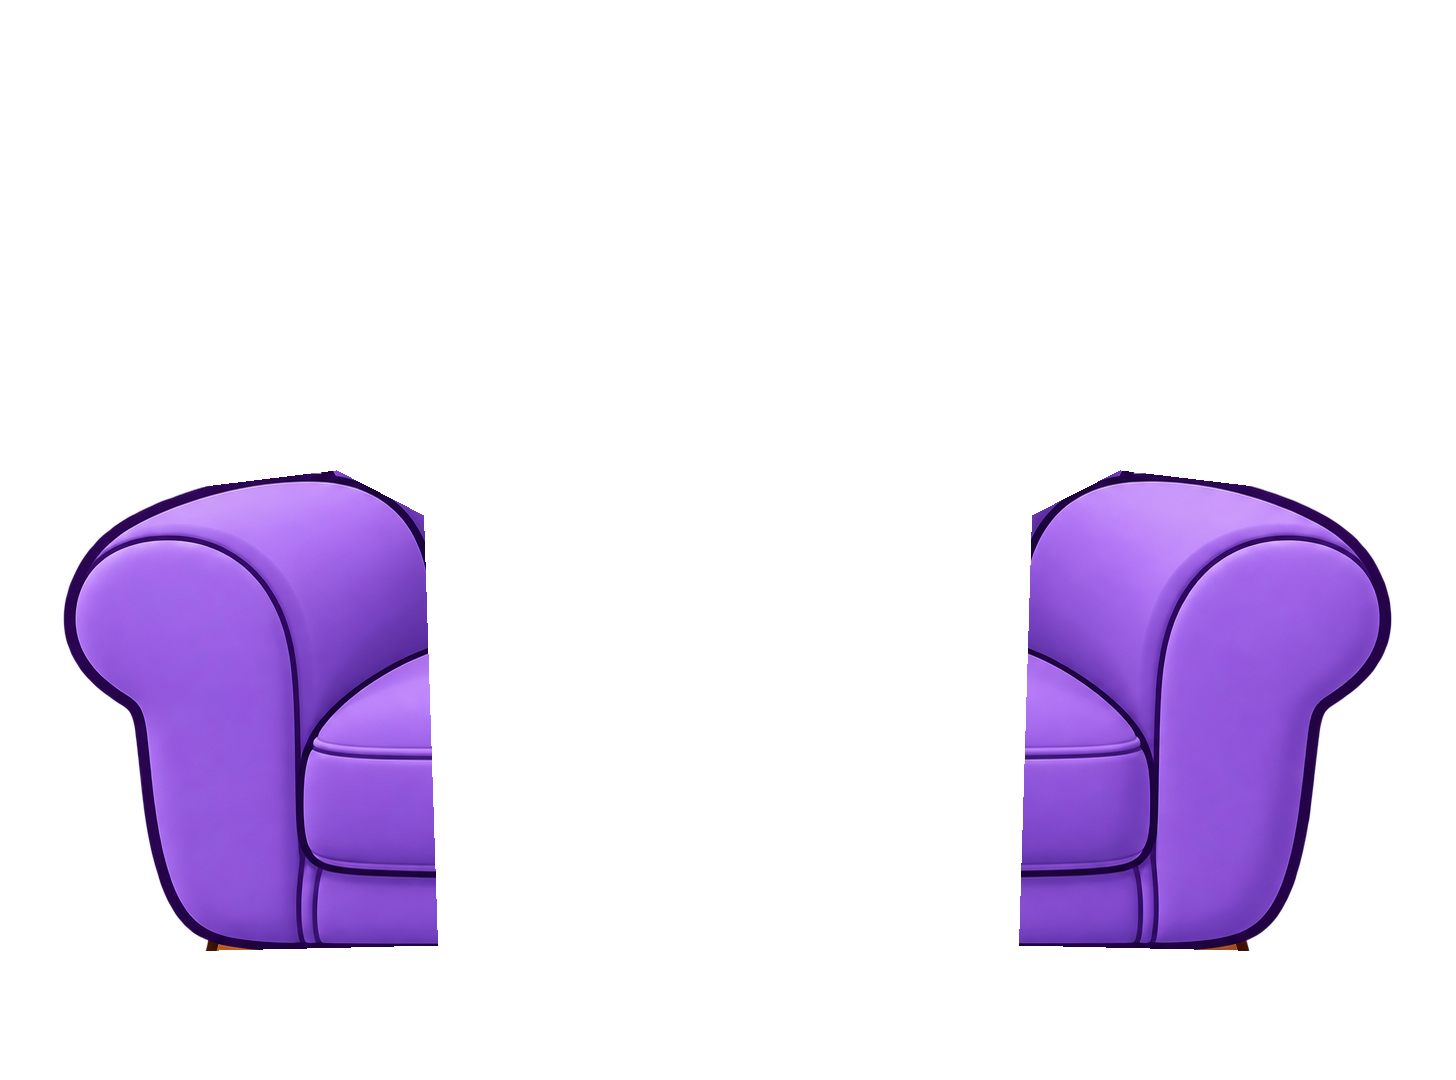
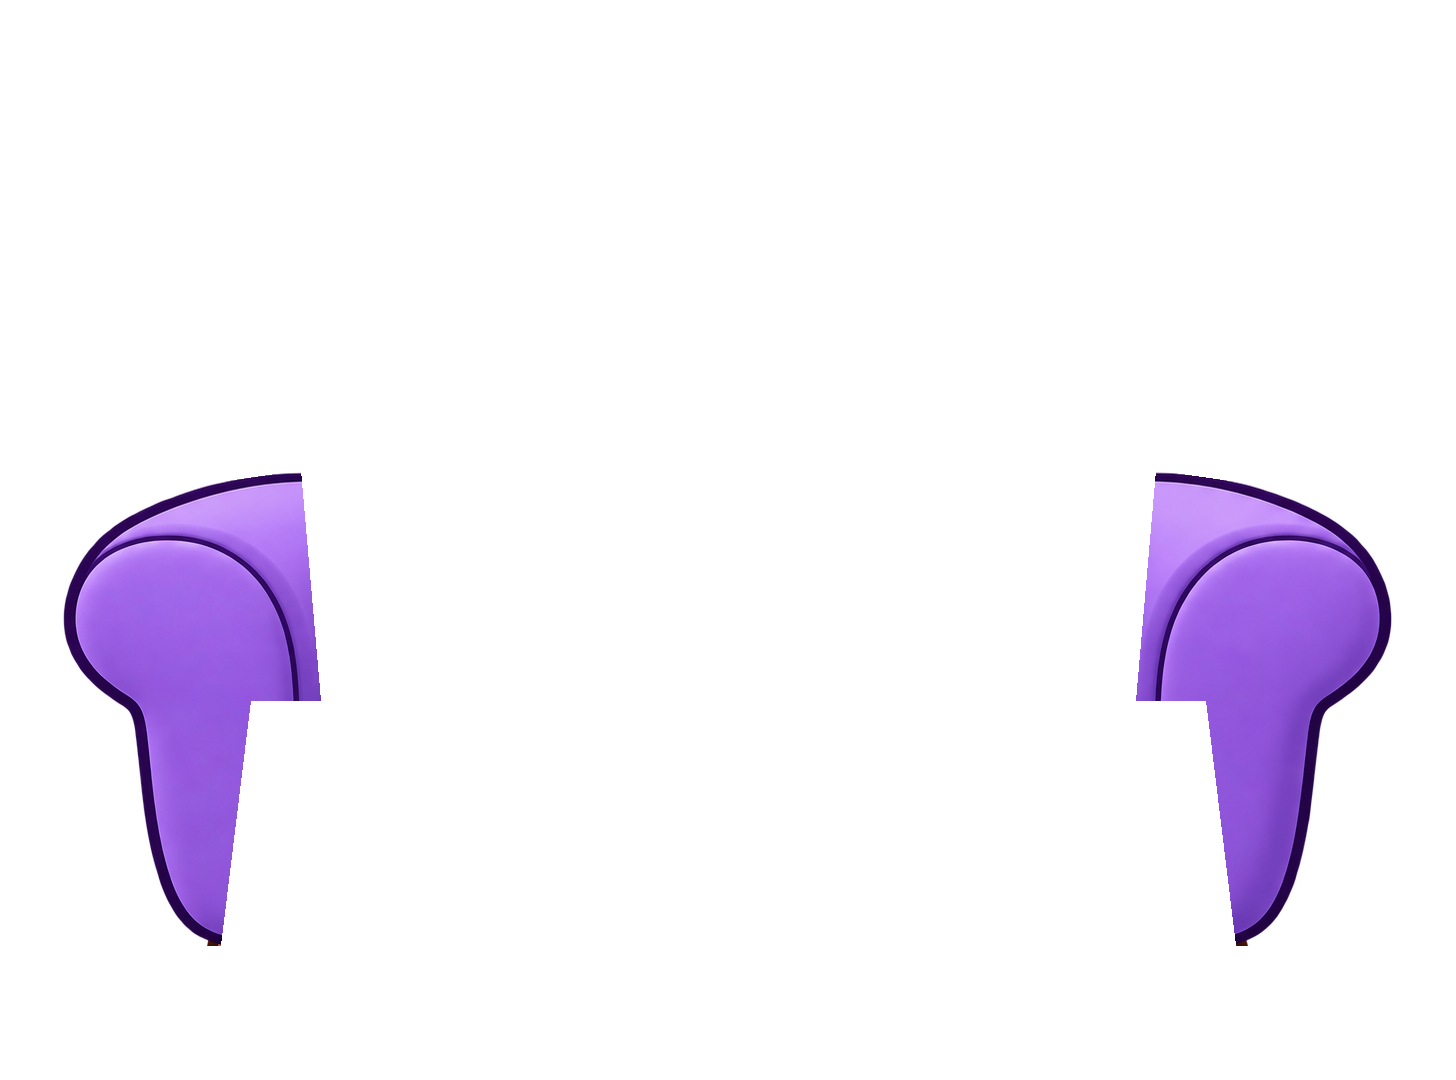
Record blocked Max rig seated silhouette repair

Changed region(s): [[0.6799, 0.4278, 0.8654, 0.8861], [0.1236, 0.4278, 0.3091, 0.8861]]

diff --git a/src/experimental/maxSitRig.ts b/src/experimental/maxSitRig.ts
@@ -2,7 +2,9 @@
 const BASE = '/art/experimental/max-sit-v1/';
 const SOURCE_WIDTH = 434;
 const SOURCE_HEIGHT = 724;
-const FOOT_LINE = 699;
+// Last solid approved shoe row (the few pixels below are transparent fringe).
+const FOOT_LINE = 684;
+const CHAIR_FOOT_FRACTION = 1029 / 1080;
 
 export type Vec2 = { x: number; y: number };
 export type MaxRigAssets = Record<string, HTMLImageElement>;
@@ -14,7 +16,8 @@ const names = [
   'upper-leg-right', 'upper-leg-left', 'lower-leg-right', 'lower-leg-left',
   'torso', 'upper-leg-fill-right', 'lower-leg-fill-right',
   'upper-leg-fill-left', 'lower-leg-fill-left', 'arm-fill-right',
-  'arm-fill-left', 'chair-back', 'chair-front',
+  'arm-fill-left', 'seated-thigh-right', 'seated-shin-right',
+  'seated-thigh-left', 'seated-shin-left', 'chair-back', 'chair-front',
 ] as const;
 
 const load = (name: string) => new Promise<HTMLImageElement>((resolve, reject) => {
@@ -101,6 +104,7 @@ export function drawMaxRigSource(context: CanvasRenderingContext2D, assets: MaxR
     return point(turned.x, turned.y + targetRoot.y - root.y);
   };
 
+  const legJoints: Array<{ side: 'right' | 'left'; sourceHip: Vec2; sourceKnee: Vec2; sourceAnkle: Vec2; hip: Vec2; knee: Vec2; ankle: Vec2 }> = [];
   // Articulated knees move outward as the pelvis descends; shoes remain fixed.
   for (const side of ['right', 'left'] as const) {
     const right = side === 'right';
@@ -111,11 +115,10 @@ export function drawMaxRigSource(context: CanvasRenderingContext2D, assets: MaxR
     const ankle = sourceAnkle;
     const solved = kneeAt(hip, ankle, distance(sourceHip, sourceKnee), distance(sourceKnee, sourceAnkle), right ? -1 : 1);
     const knee = point(sourceKnee.x + (solved.x - sourceKnee.x) * amount, sourceKnee.y + (solved.y - sourceKnee.y) * amount);
-    const fillOpacity = Math.min(1, amount * 4);
-    drawBone(context, assets, `lower-leg-fill-${side}`, sourceKnee, sourceAnkle, knee, ankle, fillOpacity);
-    drawBone(context, assets, `lower-leg-${side}`, sourceKnee, sourceAnkle, knee, ankle);
-    drawBone(context, assets, `upper-leg-fill-${side}`, sourceHip, sourceKnee, hip, knee, fillOpacity);
-    drawBone(context, assets, `upper-leg-${side}`, sourceHip, sourceKnee, hip, knee);
+    legJoints.push({ side, sourceHip, sourceKnee, sourceAnkle, hip, knee, ankle });
+    const seatedOpacity = Math.min(1, amount * 3);
+    drawBone(context, assets, `seated-shin-${side}`, sourceKnee, sourceAnkle, knee, ankle, seatedOpacity);
+    drawBone(context, assets, `lower-leg-${side}`, sourceKnee, sourceAnkle, knee, ankle, 1 - seatedOpacity);
   }
   // The approved shoe pixels are unchanged and fixed on the floor.
   drawPart(context, assets, 'shoe-right', point(153, 620), point(153, 620));
@@ -123,6 +126,14 @@ export function drawMaxRigSource(context: CanvasRenderingContext2D, assets: MaxR
 
   drawPart(context, assets, 'torso', root, targetRoot, pose.lean);
   drawPart(context, assets, 'pelvis', root, targetRoot, pose.lean);
+
+  // A bent thigh is in front of Max's shorts and the upper shoe, while its
+  // lower leg remains behind the shoe. The neutral source partition is exact.
+  for (const leg of legJoints) {
+    const seatedOpacity = Math.min(1, amount * 3);
+    drawBone(context, assets, `upper-leg-${leg.side}`, leg.sourceHip, leg.sourceKnee, leg.hip, leg.knee, 1 - seatedOpacity);
+    drawBone(context, assets, `seated-thigh-${leg.side}`, leg.sourceHip, leg.sourceKnee, leg.hip, leg.knee, seatedOpacity);
+  }
 
   for (const side of ['right', 'left'] as const) {
     const right = side === 'right';
@@ -140,7 +151,7 @@ export function drawMaxRigSource(context: CanvasRenderingContext2D, assets: MaxR
     drawPart(context, assets, `hand-${side}`, sourceWrist, wrist, elbowAngle);
   }
   const neck = point(218, 382);
-  drawPart(context, assets, 'head', neck, upperPoint(neck), 0);
+  drawPart(context, assets, 'head', neck, upperPoint(neck), pose.lean);
 }
 
 /** Draws the experimental rig at a scene-style ground point with layered chair. */
@@ -159,13 +170,13 @@ export function drawMaxSitStudy(context: CanvasRenderingContext2D, assets: MaxRi
   context.save();
   context.fillStyle = 'rgba(68,42,75,.22)';
   context.beginPath(); context.ellipse(center, floor, 86, 14, 0, 0, Math.PI * 2); context.fill();
-  if (mode === 'motion') context.drawImage(assets['chair-back'], center - 115, floor - 140, 230, 140);
+  if (mode === 'motion') context.drawImage(assets['chair-back'], center - 115, floor - 140 * CHAIR_FOOT_FRACTION, 230, 140);
   const offscreen = document.createElement('canvas');
   offscreen.width = SOURCE_WIDTH; offscreen.height = SOURCE_HEIGHT;
   const local = offscreen.getContext('2d')!;
   drawMaxRigSource(local, assets, pose);
   context.drawImage(offscreen, center - SOURCE_WIDTH * scale / 2, top, SOURCE_WIDTH * scale, 355);
-  if (mode === 'motion') context.drawImage(assets['chair-front'], center - 115, floor - 140, 230, 140);
+  if (mode === 'motion') context.drawImage(assets['chair-front'], center - 115, floor - 140 * CHAIR_FOOT_FRACTION, 230, 140);
   if (mode === 'joints') {
     const stage = (x: number, y: number) => point(center - SOURCE_WIDTH * scale / 2 + x * scale, top + y * scale);
     const joints: Record<string, Vec2> = {

diff --git a/scripts/build_max_sit_rig_v1.py b/scripts/build_max_sit_rig_v1.py
@@ -54,11 +54,41 @@ def illustrated_limb(name: str, points: list[tuple[int, int]], *, garment: bool 
     canvas.save(OUT / f'{name}.png')
 
 
+def seated_leg_art(side: str, hip_x: int) -> None:
+    """Reusable shorts, knee and shin surfaces registered to the source leg joints."""
+    outline = (4, 29, 61, 255)
+    shorts = (38, 57, 95, 255)
+    shorts_light = (53, 77, 113, 255)
+    skin = (39, 204, 193, 255)
+    skin_light = (82, 225, 211, 255)
+
+    thigh = Image.new('RGBA', size)
+    d = ImageDraw.Draw(thigh)
+    # The cap is at the hip; the lower turquoise oval marks a real bent knee.
+    d.rounded_rectangle((hip_x - 25, 548, hip_x + 25, 584), radius=16, fill=outline)
+    d.rounded_rectangle((hip_x - 21, 551, hip_x + 21, 581), radius=13, fill=shorts)
+    d.arc((hip_x - 19, 554, hip_x + 16, 581), 195, 345, fill=shorts_light, width=3)
+    d.ellipse((hip_x - 19, 573, hip_x + 19, 600), fill=outline)
+    d.ellipse((hip_x - 16, 575, hip_x + 16, 596), fill=skin)
+    d.arc((hip_x - 13, 578, hip_x + 11, 593), 190, 340, fill=skin_light, width=3)
+    thigh.save(OUT / f'seated-thigh-{side}.png')
+
+    shin = Image.new('RGBA', size)
+    d = ImageDraw.Draw(shin)
+    d.rounded_rectangle((hip_x - 18, 582, hip_x + 18, 630), radius=15, fill=outline)
+    d.rounded_rectangle((hip_x - 15, 585, hip_x + 15, 627), radius=12, fill=skin)
+    d.arc((hip_x - 11, 589, hip_x + 7, 618), 185, 350, fill=skin_light, width=3)
+    shin.save(OUT / f'seated-shin-{side}.png')
+
+
 def main() -> None:
     OUT.mkdir(parents=True, exist_ok=True)
     # Mutually exclusive original-pixel partitions reconstruct the source at rest.
     candidate: dict[str, np.ndarray] = {
-        'head': old_mask('head.png'),
+        # The inherited head mask omitted eyes, mouth, hair outlines and halo
+        # pixels. Those pixels stayed in the moving torso and ghosted on lean.
+        # All source pixels above the chin boundary move with the head.
+        'head': old_mask('head.png') | ((np.arange(height)[:, None] < 354) & (original[:, :, 3] > 0)),
         'hand-right': old_mask('hand-right.png'),
         'hand-left': old_mask('hand-left.png'),
     }
@@ -96,6 +126,7 @@ def main() -> None:
     for side, x in [('right', 164), ('left', 268)]:
         illustrated_limb(f'upper-leg-fill-{side}', [(x - 23, 550), (x + 22, 550), (x + 20, 591), (x - 21, 591)], garment=True)
         illustrated_limb(f'lower-leg-fill-{side}', [(x - 20, 585), (x + 20, 585), (x + 18, 628), (x - 18, 628)])
+        seated_leg_art(side, x)
     for side, x in [('right', 117), ('left', 328)]:
         illustrated_limb(f'arm-fill-{side}', [(x - 19, 449), (x + 19, 449), (x + 18, 511), (x - 18, 511)], garment=True)
 
@@ -105,8 +136,10 @@ def main() -> None:
     cw, ch = chair.size
     front_mask = Image.new('L', chair.size)
     pen = ImageDraw.Draw(front_mask)
-    pen.polygon([(0, 580), (90, 500), (336, 470), (423, 515), (437, 945), (0, 955)], fill=255)
-    pen.polygon([(1032, 515), (1120, 470), (1370, 500), (cw, 580), (cw, 955), (1019, 945)], fill=255)
+    # Only the outside armrests cross in front of Max. The cushion/base and
+    # chair feet stay behind him; the earlier broad masks cut off his shoes.
+    pen.polygon([(0, 580), (90, 500), (300, 470), (320, 700), (250, 700), (220, 945), (0, 955)], fill=255)
+    pen.polygon([(cw - 320, 700), (cw - 300, 470), (cw - 90, 500), (cw, 580), (cw, 955), (cw - 220, 945), (cw - 250, 700)], fill=255)
     chair_front = Image.new('RGBA', chair.size)
     chair_front.paste(chair, (0, 0), front_mask)
     chair.save(OUT / 'chair-back.png')
@@ -115,7 +148,7 @@ def main() -> None:
     metadata = {
         'version': 1, 'source': '/art/max-0.png', 'width': width, 'height': height,
         'parts': list(assigned),
-        'newFillParts': ['upper-leg-fill-right', 'lower-leg-fill-right', 'upper-leg-fill-left', 'lower-leg-fill-left', 'arm-fill-right', 'arm-fill-left'],
+        'newFillParts': ['upper-leg-fill-right', 'lower-leg-fill-right', 'upper-leg-fill-left', 'lower-leg-fill-left', 'arm-fill-right', 'arm-fill-left', 'seated-thigh-right', 'seated-shin-right', 'seated-thigh-left', 'seated-shin-left'],
         'joints': {
             'neck': [218, 382], 'pelvis': [217, 548],
             'shoulder-right': [150, 410], 'elbow-right': [112, 477], 'wrist-right': [98, 521],
@@ -123,7 +156,7 @@ def main() -> None:
             'hip-right': [164, 552], 'knee-right': [162, 590], 'ankle-right': [153, 620],
             'hip-left': [268, 552], 'knee-left': [271, 590], 'ankle-left': [281, 620],
         },
-        'approvedFootLine': 699, 'seatTarget': [217, 613],
+        'approvedFootLine': 684, 'chairFootRow': 1029, 'seatTarget': [217, 613],
     }
     (OUT / 'rig.json').write_text(json.dumps(metadata, indent=2), encoding='utf-8')
     # Exact neutral reconstruction can be validated without a browser.

diff --git a/proofs/max-rig-v1/REPORT.md b/proofs/max-rig-v1/REPORT.md
@@ -36,3 +36,25 @@ The video is a real `canvas.captureStream(30)` MediaRecorder capture of the Type
 - Maxine, sofa, toy carrying and Batch 4 were not started.
 
 The provisional chair was generated with the built-in image-generation tool and saved as [chair-source.png](chair-source.png). Prompt: one transparent front-view purple children's armchair matching the supplied chair's outlined style, tall backrest, distinctly low cushion near the floor, short wooden feet, clear space for Max, no occupant, room or shadow. The chair image is provisional and unapproved.
+
+## Targeted repair attempt — 21 October 2026
+
+**Still rejected.** The new focused frames show an improvement in head registration, shoe grounding and thigh visibility, but the seated silhouette remains unconvincing. The original video above records the *previous* implementation; no new full-cycle video was made because the focused pose gate failed. These are browser Canvas renders of the repaired experimental module, captured with a disposable Chrome profile by [capture-repair-poses.mjs](capture-repair-poses.mjs).
+
+- [Standing, large](repair-standing.png) · [halfway, large](repair-halfway.png) · [seated with full chair](repair-seated.png)
+- [Seated without foreground chair arms](repair-seated-no-front.png) · [seated anatomy with no chair](repair-seated-anatomy.png)
+- [Browser neutral comparison and capture record](repair-check.json): 0 differing RGBA pixels at rest on the 434 × 724 source canvas.
+
+### Diagnosis
+
+The original partition assigned only **738 right-thigh pixels, 604 left-thigh pixels, 87 right-shin pixels and 0 left-shin pixels** to the independent upper/lower-leg pieces. The approved shoe regions begin around source row 584–586 and extend to the floor. The pelvis spans rows 507–584. The original draw order placed both articulated legs behind these much larger pieces, so a bent knee could be mathematically correct yet invisible. The old head cut-out omitted eyes, mouth, parts of the hair and outlines; those pixels stayed in the leaning torso and ghosted around the face. The chair foreground polygons covered the shoes as well as its arms.
+
+The repair builds separate reusable shorts/thigh/knee and shin surfaces in Max's existing navy and turquoise palette; puts bent thighs in front of the pelvis and shoes; keeps shins behind the shoes; expands the head ownership to all source pixels above the chin boundary; and rotates the head and torso about the same neck transform. It also bases the ground line on the last **solid** shoe row (684, rather than a faint fringe at 699) and the chair's solid foot row (1029/1080). The repaired halfway frame no longer has the prominent duplicate facial arc or open neck seam. The provisional foreground chair mask was narrowed to avoid cutting off the shoe toes.
+
+### Remaining visual blocker
+
+The rendered seated and anatomy frames still read as Max **standing in front of the cushion**. The new thighs appear as small round pads beside the shorts, and the huge approved shoes occupy most of the chair-to-floor distance. With the source hip at (164/268, 552), knees at about row 590, ankles at row 620, and the hips lowered 40 source pixels, the fixed-length leg solution moves the seated knees sideways only about 37 source pixels and about 10 pixels below the hip. That is too little visible thigh projection to express a seated posture in this frontal artwork. The rear cushion is at hip height, but no readable pelvis-on-seat contact or forward upper-leg surface is present. The chair arm mask also cuts the edge of a hand in the seated close-up; its single-source artwork has not yielded a clean foreground separation.
+
+Further offsets or stretching would disguise the missing pose artwork and change Max's proportions. A convincing result needs a genuinely illustrated, registered seated lower-body/pelvis pose (including shoe perspective) and an armrest layer traced to the chair artwork's actual contour. That is a more substantial artwork construction step than this targeted repair established. **Stopped at the focused frame gate** as requested. The repaired experimental files are retained for inspection; they are not production assets or approved animation. Karl's visual identity and motion acceptance are both pending/failed on these frames.
+
+`npm test -- --run` passed **197/197**, and `npm run build` passed. Those checks establish regression/build health only. No repaired full-cycle recording, Scene Maker integration, Maxine, sofa, toys or Batch 4 work was done. Approved sprite and animation paths remain untouched.
